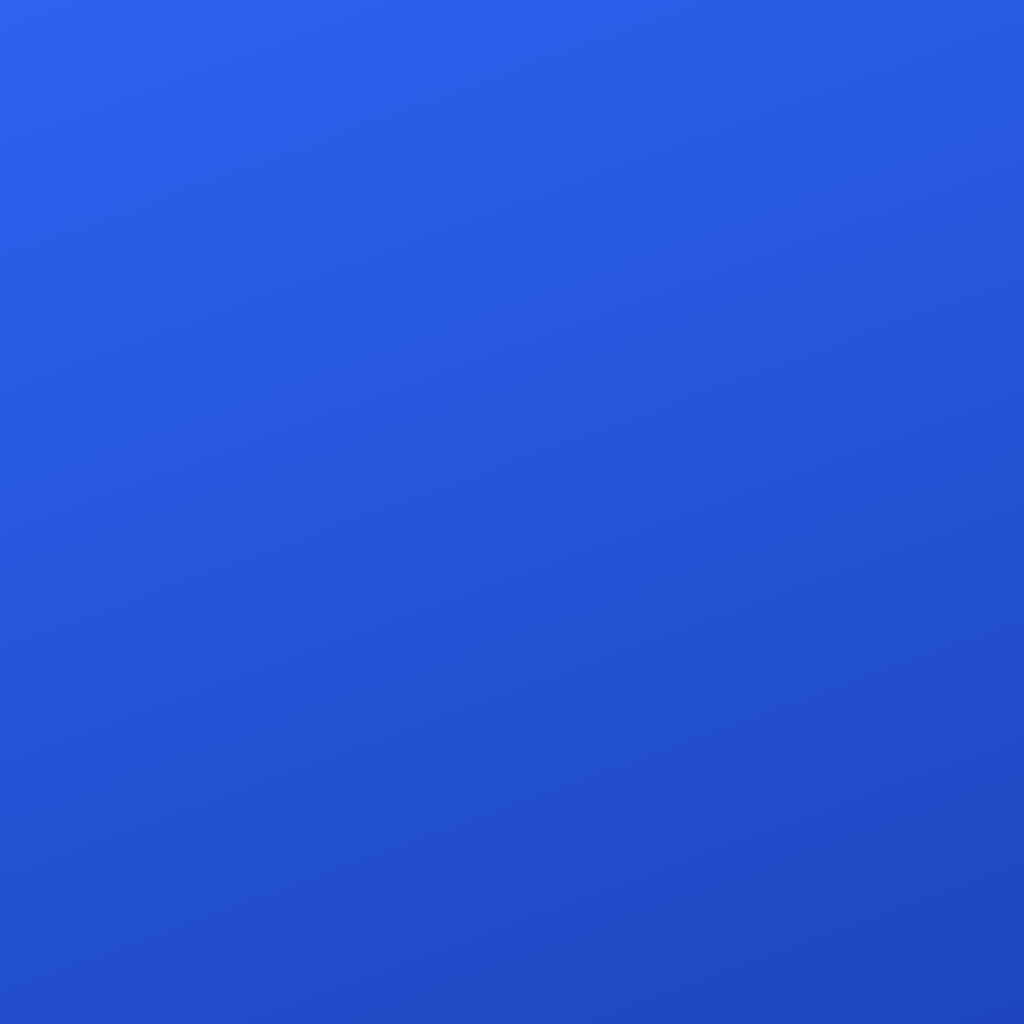
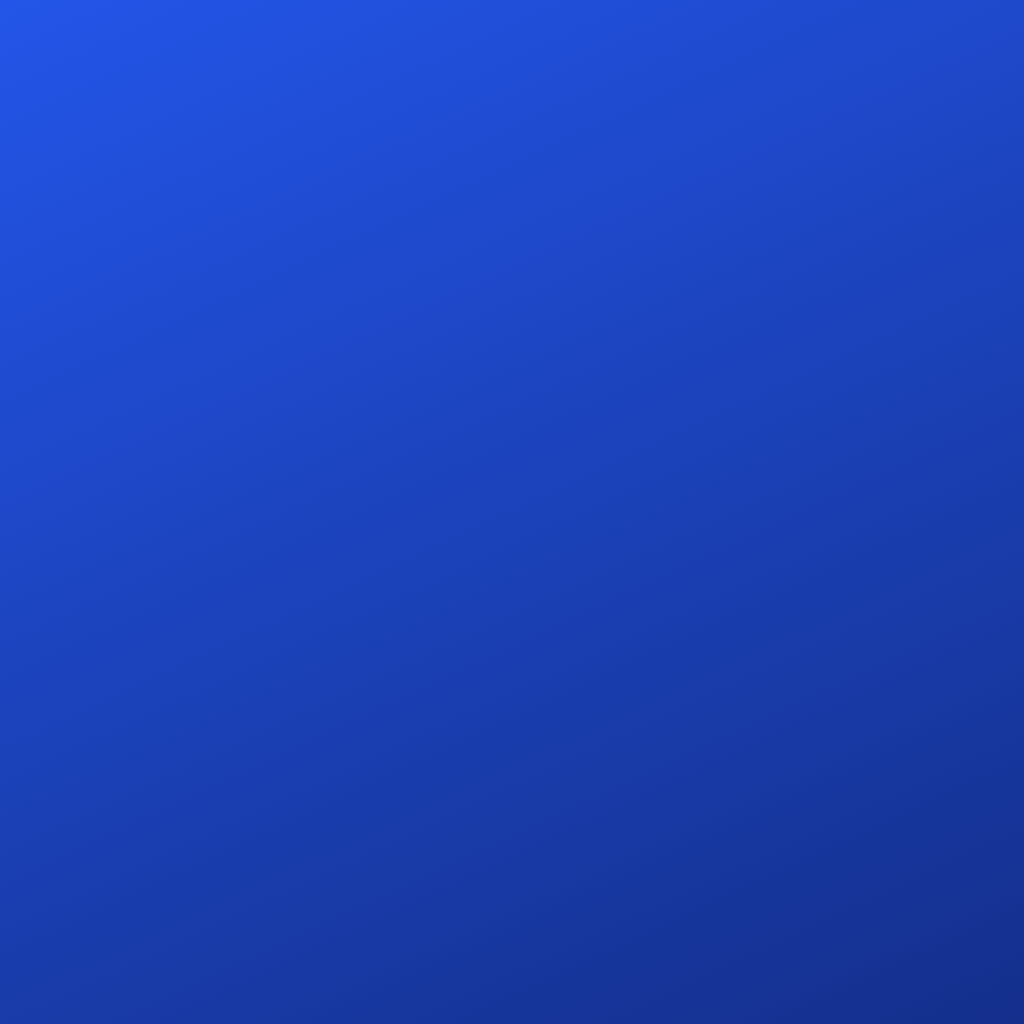
Новый логотип — «К» в шестерёнке (без искры); экран входа в том же стиле

diff --git a/src/app/index.tsx b/src/app/index.tsx
@@ -89,20 +89,18 @@ export default function PhoneScreen() {
 				</View>
 			}
 			header={
-				// The brand card: the app icon, the name and what it is — the market of Kudaibergen
+				// The brand card in the logo's style: the gear mark, the name, what it is
 				<LinearGradient
-					colors={['#2D63F0', '#1D46BF']}
-					start={{ x: 0.15, y: 0 }}
-					end={{ x: 0.85, y: 1 }}
-					style={{ height: 196, borderRadius: 28, padding: 22, justifyContent: 'space-between', overflow: 'hidden' }}
+					colors={['#2355E8', '#142F8C']}
+					start={{ x: 0.1, y: 0 }}
+					end={{ x: 0.9, y: 1 }}
+					style={{ height: 196, borderRadius: 28, paddingHorizontal: 22, flexDirection: 'row', alignItems: 'center', gap: 16 }}
 				>
-					<View style={{ position: 'absolute', right: -40, top: -40, width: 180, height: 180, borderRadius: 90, backgroundColor: 'rgba(255,255,255,0.08)' }} />
-					<View style={{ position: 'absolute', right: 40, bottom: -70, width: 140, height: 140, borderRadius: 70, backgroundColor: 'rgba(255,255,255,0.06)' }} />
-					<Image source={require('../../assets/images/icon.png')} style={{ width: 60, height: 60, borderRadius: 16, borderWidth: 2, borderColor: 'rgba(255,255,255,0.35)' }} />
-					<View style={{ gap: 4 }}>
-						<Text style={{ fontSize: 30, lineHeight: 36, fontFamily: fontFamily(800), letterSpacing: -0.6, color: '#FFFFFF' }}>Кудайберген</Text>
-						<Text style={{ fontSize: 16, lineHeight: 22, fontFamily: fontFamily(500), color: 'rgba(255,255,255,0.88)' }}>
-							Рынок автозапчастей · продавцы и мастера рядом
+					<Image source={require('../../assets/images/logo-mark.png')} style={{ width: 92, height: 92 }} />
+					<View style={{ flex: 1, gap: 6 }}>
+						<Text style={{ fontSize: 28, lineHeight: 34, fontFamily: fontFamily(800), letterSpacing: -0.5, color: '#FFFFFF' }}>Кудайберген</Text>
+						<Text style={{ fontSize: 15.5, lineHeight: 21, fontFamily: fontFamily(500), color: 'rgba(255,255,255,0.85)' }}>
+							Авторынок запчастей в Бишкеке
 						</Text>
 					</View>
 				</LinearGradient>
